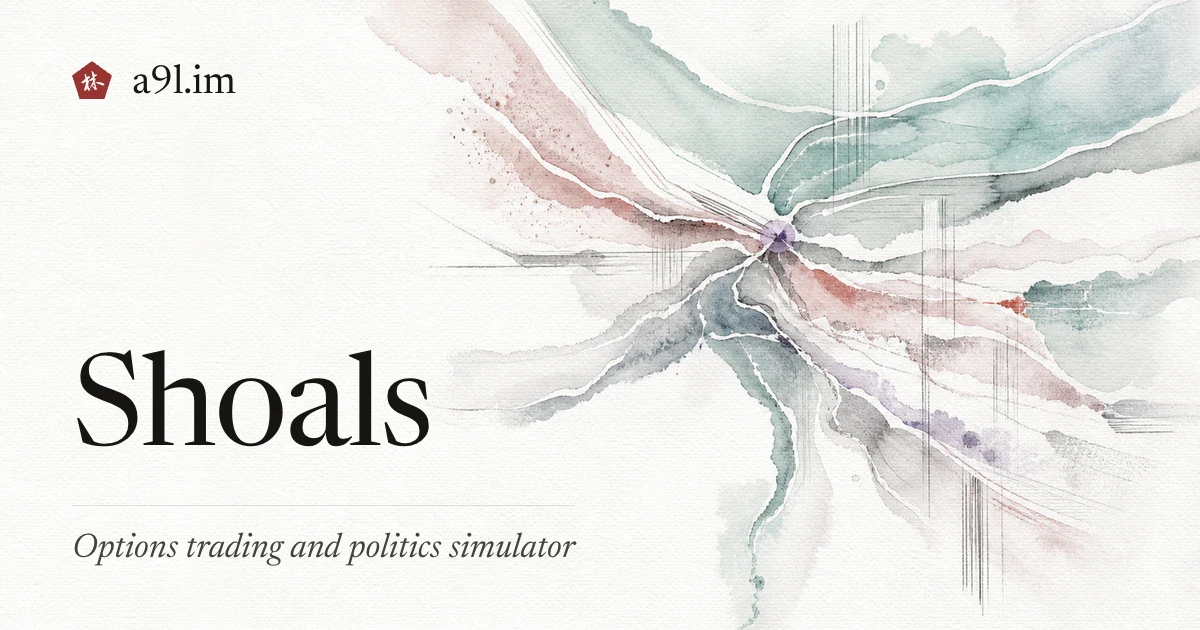
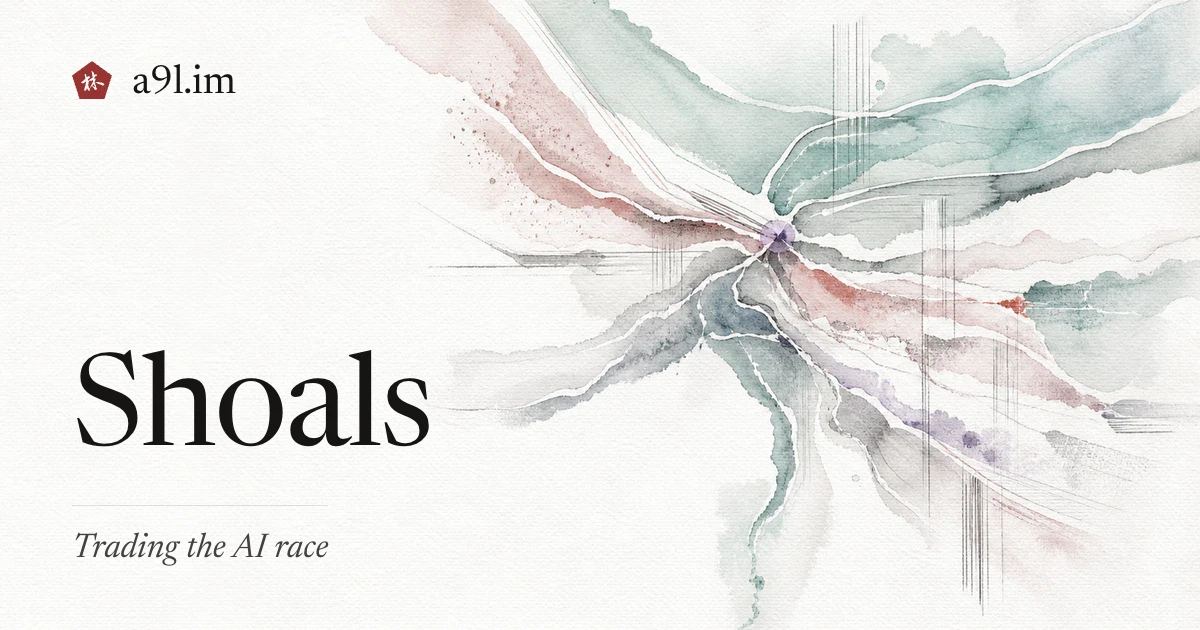
Present Shoals as the AI-race game in its title, SEO copy, and card
The title, description, and social card still pitched the pre-race
politics sim. The title is now "Trading the AI Race", the description is
the race-era line from the overhaul, the about page opens with the race,
and the JSON-LD and crawlable copy get current counts (18 traits, 8
standing dimensions, 400+ events), an AI-race FAQ entry, and an accurate
account of the companion-tree smoothing. updated moves to 2026-09-08, the
last material behavior change.

Changed region(s): [[0.0617, 0.8444, 0.4933, 0.9048]]

diff --git a/index.html b/index.html
@@ -4,28 +4,28 @@
 <head>
     <meta charset="UTF-8">
     <meta name="viewport" content="width=device-width, initial-scale=1.0">
-    <title>Shoals — Options Trading and Politics Simulator | a9l.im</title>
+    <title>Shoals — Trading the AI Race | a9l.im</title>
     <meta name="description"
-        content="Trade stock, bonds, VXHCN volatility futures, and American options through a branching institutional narrative with stochastic pricing, regulation, lobbying, and six endings.">
+        content="Trade stock, bonds, VXHCN volatility futures, American options, and AI-milestone binaries through the last years of the race — stochastic pricing, a hidden capability model, and six ways it ends.">
     <meta name="robots" content="index, follow, max-image-preview:large, max-snippet:-1">
-    <meta property="og:title" content="Shoals — Options Trading and Politics Simulator">
-    <meta property="og:description" content="Trade stock, bonds, VXHCN volatility futures, and American options through a branching institutional narrative with stochastic pricing, regulation, lobbying, and six endings.">
+    <meta property="og:title" content="Shoals — Trading the AI Race">
+    <meta property="og:description" content="Trade stock, bonds, VXHCN volatility futures, American options, and AI-milestone binaries through the last years of the race — stochastic pricing, a hidden capability model, and six ways it ends.">
     <meta property="og:type" content="website">
     <meta property="og:url" content="https://a9l.im/shoals">
     <meta property="og:site_name" content="a9l.im">
     <meta name="twitter:card" content="summary_large_image">
-    <meta property="og:image" content="https://a9l.im/shoals/og-image.webp?v=20261019">
-    <meta name="twitter:image" content="https://a9l.im/shoals/og-image.webp?v=20261019">
-    <meta name="twitter:image:alt" content="Shoals — options trading and politics simulator by a9l.im">
+    <meta property="og:image" content="https://a9l.im/shoals/og-image.webp?v=20261023">
+    <meta name="twitter:image" content="https://a9l.im/shoals/og-image.webp?v=20261023">
+    <meta name="twitter:image:alt" content="Shoals — trading the AI race, by a9l.im">
     <meta property="og:image:width" content="1200">
     <meta property="og:image:height" content="630">
     <meta property="og:image:type" content="image/webp">
-    <meta property="og:image:alt" content="Shoals — options trading and politics simulator by a9l.im">
+    <meta property="og:image:alt" content="Shoals — trading the AI race, by a9l.im">
     <meta name="twitter:site" content="@_a9lim">
     <meta name="twitter:creator" content="@_a9lim">
     <meta property="og:locale" content="en_US">
-    <meta name="twitter:title" content="Shoals — Options Trading and Politics Simulator">
-    <meta name="twitter:description" content="Trade stock, bonds, VXHCN volatility futures, and American options through a branching institutional narrative with stochastic pricing, regulation, lobbying, and six endings.">
+    <meta name="twitter:title" content="Shoals — Trading the AI Race">
+    <meta name="twitter:description" content="Trade stock, bonds, VXHCN volatility futures, American options, and AI-milestone binaries through the last years of the race — stochastic pricing, a hidden capability model, and six ways it ends.">
     <meta name="author" content="a9lim">
     <link rel="icon" href="/favicon.ico">
     <meta name="theme-color" content="#FCFCFB">
@@ -68,7 +68,7 @@
       "@type": ["WebApplication", "LearningResource", "Game"],
       "name": "Shoals",
       "url": "https://a9l.im/shoals",
-      "description": "Trade stock, bonds, VXHCN volatility futures, and American options through a branching institutional narrative with stochastic pricing, regulation, lobbying, and six endings.",
+      "description": "Trade stock, bonds, VXHCN volatility futures, American options, and AI-milestone binaries through the last years of the race — stochastic pricing, a hidden capability model, and six ways it ends.",
       "speakable": {
         "@type": "SpeakableSpecification",
         "cssSelector": ["meta[name='description']"]
@@ -91,7 +91,7 @@
         {"@type": "Thing", "@id": "https://www.wikidata.org/wiki/Q189447", "name": "Risk management"},
         {"@type": "Thing", "@id": "https://www.wikidata.org/wiki/Q66295", "name": "Derivative"}
       ],
-      "keywords": "options trading simulator, binomial tree pricing, Heston model, stochastic volatility, Greeks, strategy builder, quantitative finance, educational",
+      "keywords": "options trading simulator, AI race game, binomial tree pricing, Heston model, stochastic volatility, Greeks, strategy builder, prediction markets, quantitative finance, educational",
       "operatingSystem": "Any (Web Browser)",
       "browserRequirements": "Modern browser with Canvas support",
       "sameAs": "https://github.com/a9lim/shoals",
@@ -111,7 +111,7 @@
         {"@type": "AlignmentObject", "alignmentType": "educationalSubject", "educationalFramework": "GARP Financial Risk Manager", "targetName": "FRM Part I: Valuation and Risk Models", "targetUrl": "https://www.garp.org/frm"}
       ],
       "datePublished": "2026-03-17",
-      "dateModified": "2026-07-17",
+      "dateModified": "2026-09-08",
       "author": {
         "@type": "Person",
         "name": "a9lim",
@@ -143,9 +143,10 @@
       "accessibilityHazard": ["motionSimulation"],
       "relatedLink": ["https://a9l.im/geon", "https://a9l.im/cyano", "https://a9l.im/gerry"],
       "gameItem": [
-        {"@type":"Thing","name":"Character Traits","description":"12 permanent convictions and 6 dynamic reputation tags that shape narrative branching"},
-        {"@type":"Thing","name":"Institutional Standing","description":"6 standing dimensions covering the firm, regulators, parties, media, and Federal Reserve"},
-        {"@type":"Thing","name":"Narrative Endings","description":"6 distinct ending types with adaptive 5-page epilogue"}
+        {"@type":"Thing","name":"Character Traits","description":"18 permanent traits and 6 dynamic reputation tags that shape narrative branching"},
+        {"@type":"Thing","name":"Institutional Standing","description":"8 standing dimensions covering the firm, regulators, both parties, media, the Federal Reserve, the safety network, and the labs"},
+        {"@type":"Thing","name":"AI Race","description":"A hidden race between three labs on a capability ladder, with incidents, weight thefts, and a ratcheting government control regime"},
+        {"@type":"Thing","name":"Narrative Endings","description":"6 terminal families with an adaptive 5-page epilogue"}
       ],
       "numberOfPlayers": {"@type":"QuantitativeValue","value":1},
       "genre": ["financial simulation","narrative game","educational"]
@@ -161,7 +162,7 @@
           "name": "How does Shoals price options?",
           "acceptedAnswer": {
             "@type": "Answer",
-            "text": "Shoals uses a 128-step Cox-Ross-Rubinstein (CRR) binomial tree with Broadie-Detemple smoothing for American option pricing. The tree incorporates term-structure volatility, moneyness skew, and discrete dividend adjustments. Stock prices follow geometric Brownian motion with optional Merton jump diffusion and Heston stochastic volatility."
+            "text": "Shoals prices American options on a 128-step Cox-Ross-Rubinstein (CRR) binomial tree, averaged with a 127-step companion tree to cancel odd/even oscillation. The tree incorporates term-structure volatility, moneyness skew, and discrete dividend adjustments. Stock prices follow geometric Brownian motion with optional Merton jump diffusion and Heston stochastic volatility."
           }
         },
         {
@@ -185,7 +186,15 @@
           "name": "What market events does Shoals simulate?",
           "acceptedAnswer": {
             "@type": "Answer",
-            "text": "The offline registry currently contains roughly 350 curated events across Federal Reserve, macro, market, firm, political, investigation, media, HCN, tip, trait, and interjection domains. Events may change price-process parameters, world state, institutional standing, followup eligibility, or player choices; decision events are queued as popups."
+            "text": "In the Dynamic modes, an offline registry of more than 400 curated events covers the Federal Reserve, macro, markets and sectors, Congress, investigations, media, the firm, the labs, China and the Taiwan Strait, incidents, thefts, policy, and treaties. Events may change price-process parameters, world state, institutional standing, followup eligibility, or player choices; decision events are queued as popups."
+          }
+        },
+        {
+          "@type": "Question",
+          "name": "What is the AI race in Shoals?",
+          "acceptedAnswer": {
+            "@type": "Answer",
+            "text": "In the Dynamic modes, a hidden race model runs beneath the market. Three labs (Halcyon, Polaris, and China's Tianxia) climb a capability ladder, incidents surface only when they are detected, model weights can be stolen, and a government control regime ratchets. Consensus binaries settle on capability milestones and Cambria compute futures track the hardware, so a correct read of the race pays. Each run ends in one of six terminal families."
           }
         },
         {
@@ -236,7 +245,7 @@
         {"@type": "HowToStep", "position": 2, "name": "Open the live market", "text": "Run or single-step the 16-substep trading day while the Heston/Merton stock process, Vasicek rate process, VXHCN index, and rolling expiries update."},
         {"@type": "HowToStep", "position": 3, "name": "Build and execute a strategy", "text": "Trade stock, bonds, VXHCN futures, or individual options, or use the multi-leg builder for a saved or custom strategy with payoff and Greek overlays."},
         {"@type": "HowToStep", "position": 4, "name": "Manage orders and margin", "text": "Use market, limit, or stop orders; monitor cash, buying power, margin, borrow costs, price impact, and pending orders."},
-        {"@type": "HowToStep", "position": 5, "name": "Navigate the narrative", "text": "In a dynamic mode, respond to queued institutional decisions and observe how market parameters, world state, standing, traits, regulations, and endings change."}
+        {"@type": "HowToStep", "position": 5, "name": "Read the race", "text": "In a Dynamic mode, trade Consensus milestone binaries and compute futures on your read of the hidden race, respond to queued decisions, and watch how market parameters, standing, traits, regulations, and the race's resolution change."}
       ]
     }
     </script>
@@ -762,17 +771,17 @@
       <summary>About this simulation</summary>
       <article>
         <h2>What is Shoals?</h2>
-        <p>Shoals is an options trading simulator that models derivatives pricing under realistic market conditions. Stock prices evolve with stochastic volatility and jump diffusion while a narrative event engine introduces market shocks, connecting abstract pricing theory to real-world dynamics.</p>
+        <p>Shoals is a derivatives trading game set in the last years of the AI race. Stock prices evolve with stochastic volatility and jump diffusion while, in the Dynamic modes, a hidden race between three labs drives a narrative event engine, connecting abstract pricing theory to the question of what the market can and cannot see.</p>
         <h3>Pricing models</h3>
         <p>The underlying stock follows geometric Brownian motion with optional Merton jump diffusion (sudden large moves) and Heston stochastic volatility (time-varying vol that mean-reverts). Interest rates follow a Vasicek process. American options are priced on a 128-step CRR binomial tree with term-structure volatility and moneyness skew adjustments.</p>
         <h3>Strategy builder</h3>
         <p>The multi-leg strategy builder supports spreads, straddles, strangles, condors, butterflies, and custom combinations. Each strategy displays a payoff diagram, Greek overlays showing how sensitivity changes across strikes, maximum profit and loss, and break-even points. A margin system tracks portfolio-level exposure and buying power.</p>
         <h3>Market events</h3>
-        <p>Roughly 350 curated events span Federal Reserve, macro, market, firm, political, investigation, media, HCN, tip, trait, and interjection domains. Depending on the event, they can change process parameters, world state, institutional standing, followup eligibility, or player choices; decision events are queued as popups.</p>
+        <p>More than 400 curated events span the Federal Reserve, macro, markets and sectors, Congress, investigations, media, the firm, the labs, China and the Taiwan Strait, incidents, thefts, policy, and treaties. Depending on the event, they can change process parameters, world state, institutional standing, followup eligibility, or player choices; decision events are queued as popups.</p>
     <h3>Price impact</h3>
     <p>Shoals records decaying cumulative volume separately for stock, bonds, VXHCN futures, and each option contract. Square-root fill costs and valuation overlays model execution impact; option delta changes generate market-maker stock hedges, and very large gross exposure can add temporary capped parameter overlays.</p>
     <h3>Narrative framework</h3>
-    <p>The simulation is set at Meridian Capital during the Barron administration. The event registry combines Poisson arrivals, scheduled pulses, portfolio triggers, one-shot conditions, and followup chains. Twelve permanent convictions, six dynamic reputation tags, and six institutional-standing dimensions shape later eligibility and consequences, culminating in one of six ending types with a five-page adaptive epilogue.</p>
+    <p>The simulation is set at Meridian Capital during the Barron administration. The event registry combines Poisson arrivals, scheduled pulses, portfolio triggers, one-shot conditions, and followup chains. Eighteen permanent traits, six dynamic reputation tags, and eight institutional-standing dimensions shape later eligibility and consequences. Beneath them, a hidden race model (three labs on a capability ladder, incidents that surface only on detection, weight thefts, and a ratcheting control regime) resolves into one of six terminal families with a five-page adaptive epilogue.</p>
     <h3>Accessibility</h3>
     <p>Shoals provides keyboard shortcuts, light and dark themes, labeled controls, numerical market and portfolio readouts, and focus trapping for narrative popups and the epilogue. The live candlestick chart, sparklines, typewriter treatment, and other animated feedback create continuous motion.</p>
     <p><em>See also: <a href="/geon">Geon</a> for particle physics, <a href="/cyano">Cyano</a> for cellular metabolism, <a href="/gerry">Gerry</a> for electoral fairness.</em></p>

diff --git a/main.js b/main.js
@@ -848,7 +848,7 @@ function init() {
     if (typeof initAboutPanel === 'function') {
         initAboutPanel({
             title: 'Shoals',
-            lastUpdated: '2026-07-17',
+            lastUpdated: '2026-09-08',
             description: 'Trade stock, bonds, VXHCN volatility futures, and American options in a stochastic market simulator. Build multi-leg strategies, manage a margin portfolio, and navigate branching institutional events during a volatile political term.',
             controls: [
                 { label: 'Buy / sell stock', value: 'Click the HCN price or press B' },

diff --git a/about.md b/about.md
@@ -1,13 +1,13 @@
 ---
 name: Shoals
-title: Shoals — Options Trading and Politics Simulator
-description: Trade stock, bonds, VXHCN volatility futures, and American options through a branching institutional narrative with stochastic pricing, regulation, lobbying, and six endings.
-updated: 2026-07-17
+title: Shoals — Trading the AI Race
+description: Trade stock, bonds, VXHCN volatility futures, American options, and AI-milestone binaries through the last years of the race — stochastic pricing, a hidden capability model, and six ways it ends.
+updated: 2026-09-08
 ---
 
-# Shoals — Interactive Options Trading Simulator
+# Shoals — Trading the AI Race
 
-Shoals is an options trading simulator that models derivatives pricing under stochastic volatility. It combines quantitative pricing models with a narrative market event engine for scenario-based learning.
+Shoals is a derivatives trading game set in the last years of the AI race. The player runs a book at Meridian Capital while three labs (Halcyon, Polaris, and China's Tianxia) climb toward transformative capability, and the market prices what it can see of that race. Five fixed market regimes teach the pricing on their own; the two Dynamic modes add the race, its milestone and compute markets, and a branching institutional narrative that ends in one of six terminal families.
 
 ## Pricing Models
 
@@ -27,7 +27,7 @@ The trading surface includes HCN stock, bonds, VXHCN volatility futures, and Ame
 
 ## Institutional Narrative
 
-Shoals is also a branching institutional simulation. A domain-organized event graph connects firm decisions, regulators, the Federal Reserve, counterparties, media, farmers, labor, and political actors. Choices change world state, unlock or foreclose later events, and move eight standing dimensions: firm standing, regulatory exposure, federalist support, farmer and labor support, media trust, Fed relations, safety-network trust, and lab relations. Eighteen permanent traits and six dynamic tags make the consequences of earlier choices visible in later scenes. In the dynamic modes, a hidden AI-race model (three labs on a capability ladder, incidents that surface only on detection, weight thefts, and a ratcheting government control regime) runs beneath the market and drives much of the event graph.
+Shoals is also a branching institutional simulation. A domain-organized event graph connects firm decisions, regulators, the Federal Reserve, counterparties, media, Congress and the two parties, the labs, and foreign governments. Choices change world state, unlock or foreclose later events, and move eight standing dimensions: firm standing, regulatory exposure, federalist support, farmer and labor support, media trust, Fed relations, safety-network trust, and lab relations. Eighteen permanent traits and six dynamic tags make the consequences of earlier choices visible in later scenes. In the dynamic modes, a hidden AI-race model (three labs on a capability ladder, incidents that surface only on detection, weight thefts, and a ratcheting government control regime) runs beneath the market and drives much of the event graph.
 
 ## Policy and Endings
 
